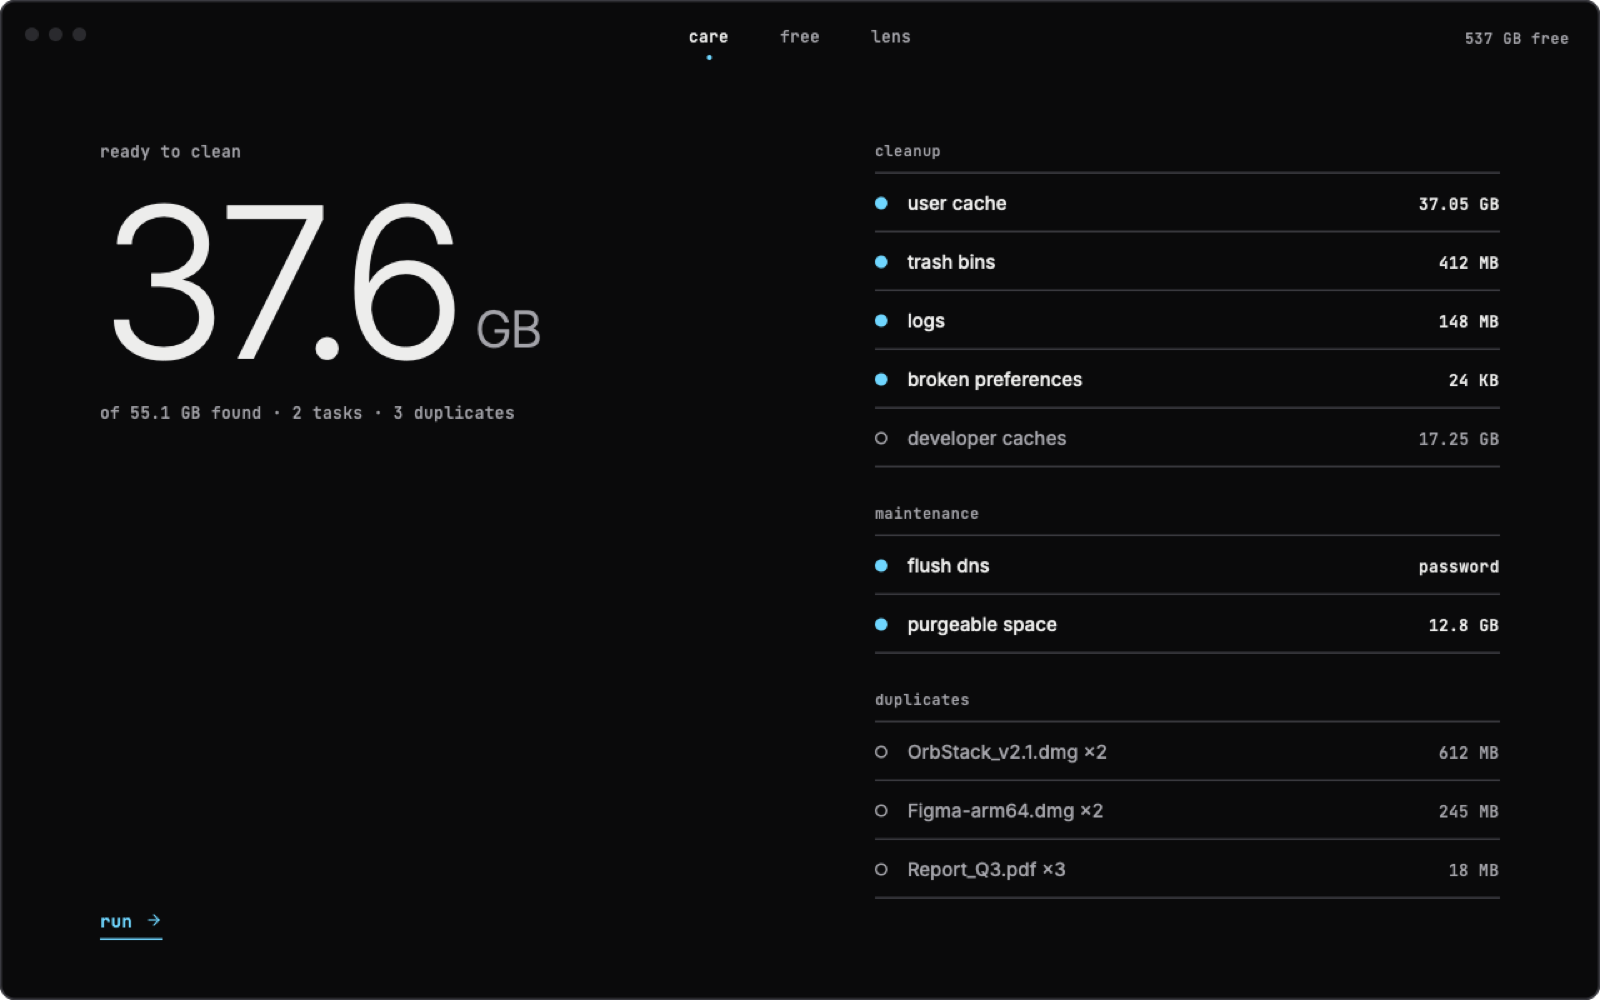
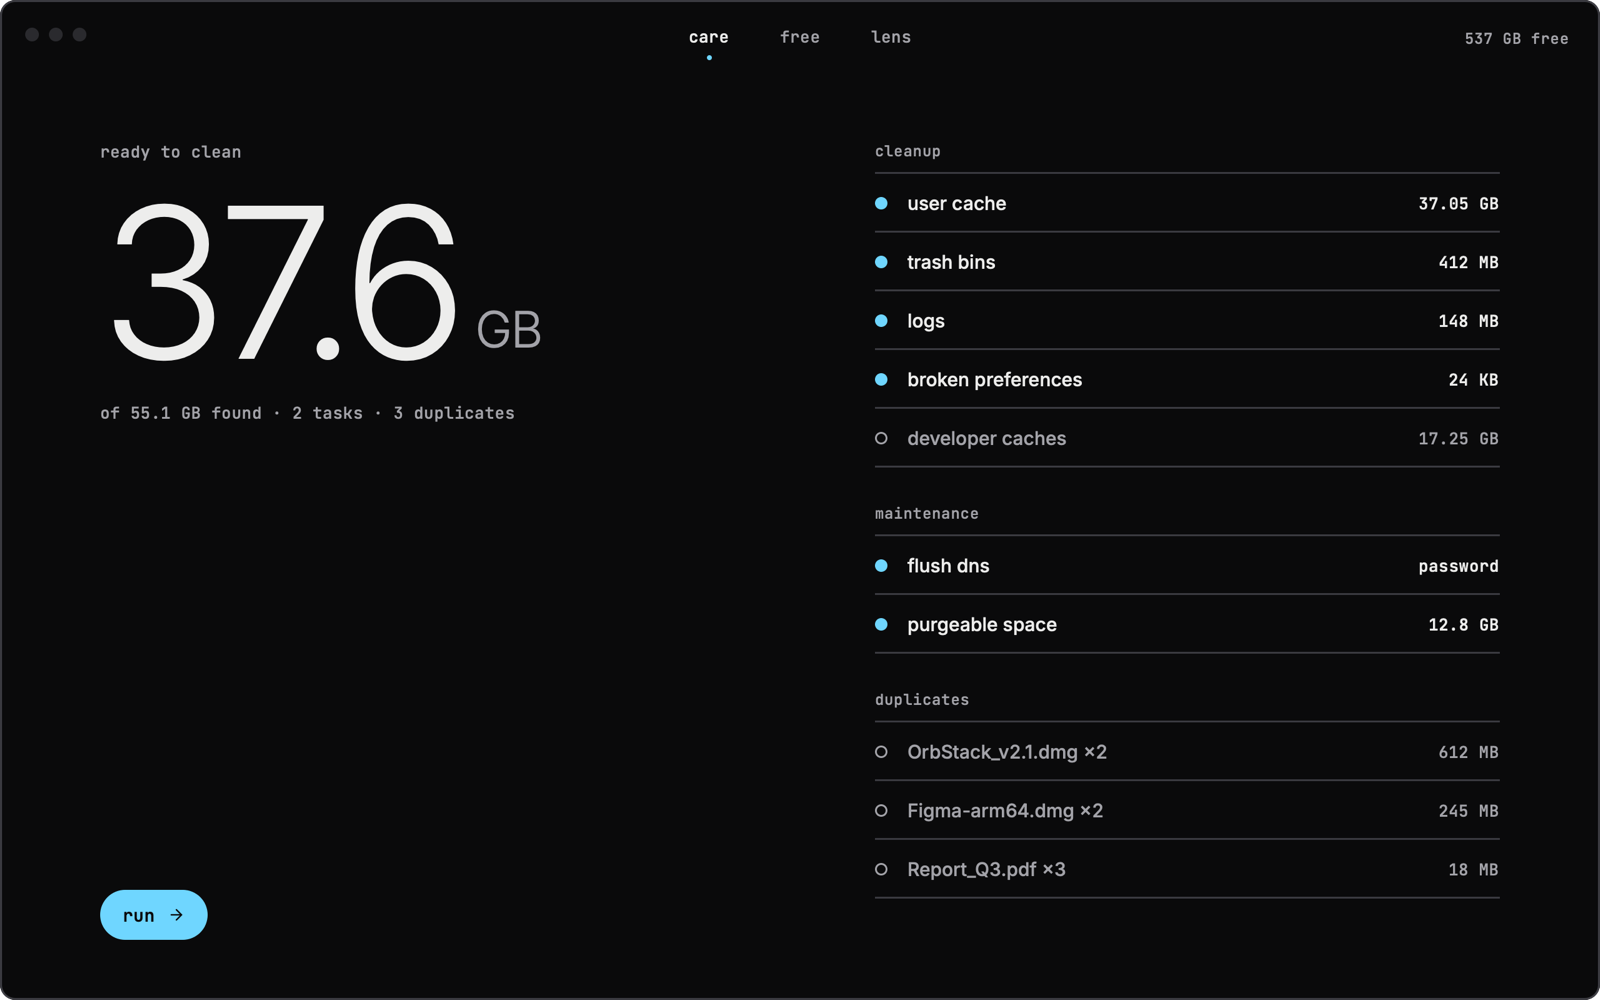
Update README previews to the current design

diff --git a/README.md b/README.md
@@ -31,9 +31,11 @@ Everything runs on your Mac. Nothing is uploaded, and there is no background age
 ## Preview
 
 <p align="center">
-  <img src="assets/care.png" width="32%" alt="care: review before cleaning" />
-  <img src="assets/free.png" width="32%" alt="free: memory, purgeable space and trash" />
-  <img src="assets/lens.png" width="32%" alt="lens: bubble map of disk usage" />
+  <img src="assets/lens.png" width="100%" alt="lens: bubble map of a folder next to the list of everything in it" />
+</p>
+<p align="center">
+  <img src="assets/care.png" width="49%" alt="care: everything that will be cleaned, reviewed before run" />
+  <img src="assets/free.png" width="49%" alt="free: memory, purgeable space and trash" />
 </p>
 
 <p align="center"><sub>care · free · lens. Dark, hairlines and type, nothing else.</sub></p>
